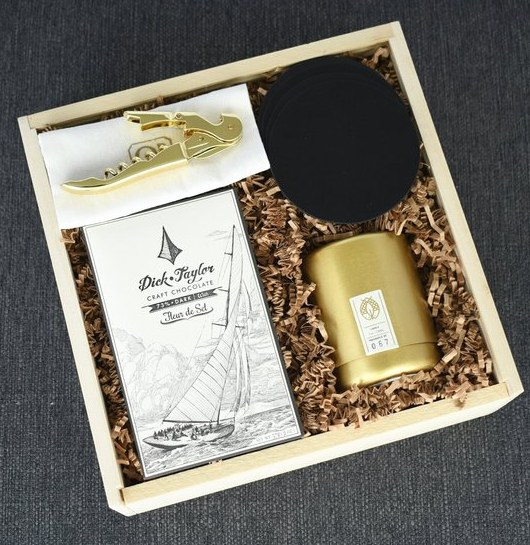
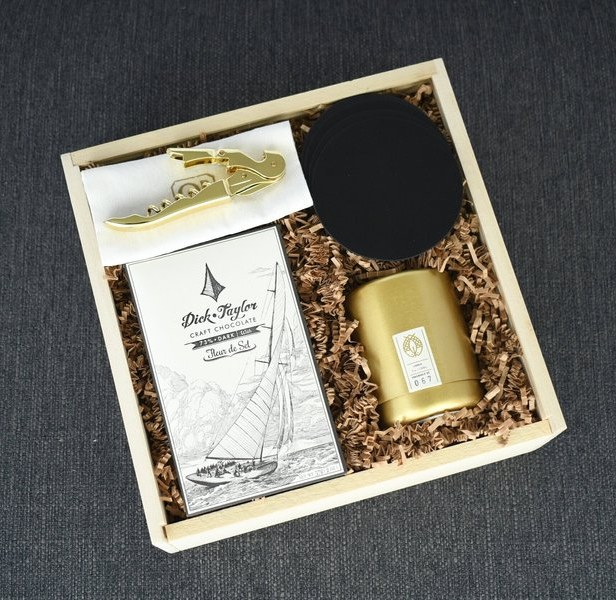
Loosen the home band crop and stop the double crop
The first crop put the crate at 85% of the frame with almost no linen
left around it. It was tighter still on the page, because .cb-figure
pinned the image to a fixed 440px height with object-fit: cover, so the
already-cropped file was cropped a second time in the browser.

Crate is now ~73% of the frame, keeping a border of linen, and the
figure follows the file's own 616x600 ratio instead of a fixed height,
so what is in the file is what shows.

Claude-Session: https://claude.ai/code/session_01TxBmwVpNciJocDRpmjnHxx

diff --git a/site/assets/css/site.css b/site/assets/css/site.css
@@ -1225,7 +1225,10 @@ footer {
   border-radius: 4px; overflow: hidden;
   box-shadow: 0 30px 80px rgba(0,0,0,0.10);
 }
-.cb-figure img { display: block; width: 100%; height: 440px; object-fit: cover; }
+.cb-figure img {
+  display: block; width: 100%; height: auto;
+  aspect-ratio: 616 / 600; object-fit: cover;
+}
 .cb-intro h3 {
   font-family: var(--serif); font-weight: 400; font-size: 27px;
   color: var(--text); margin: 0 0 16px; line-height: 1.25;

diff --git a/site/index.html b/site/index.html
@@ -94,7 +94,7 @@
 
   <div class="cb-stage fade-up">
     <div class="cb-figure">
-      <img src="/assets/img/0B0_2489-crop-750w.jpg" width="530" height="545" loading="lazy"
+      <img src="/assets/img/0B0_2489-crop-750w.jpg" width="616" height="600" loading="lazy"
            alt="A wooden Occasions Box crate packed with a gold candle, a gold corkscrew, craft chocolate and slate coasters, on charcoal linen">
     </div>
     <div class="cb-intro">

diff --git a/tools/sections/custom-band.html b/tools/sections/custom-band.html
@@ -8,7 +8,7 @@
 
   <div class="cb-stage fade-up">
     <div class="cb-figure">
-      <img src="/assets/img/0B0_2489-crop-750w.jpg" width="530" height="545" loading="lazy"
+      <img src="/assets/img/0B0_2489-crop-750w.jpg" width="616" height="600" loading="lazy"
            alt="A wooden Occasions Box crate packed with a gold candle, a gold corkscrew, craft chocolate and slate coasters, on charcoal linen">
     </div>
     <div class="cb-intro">
